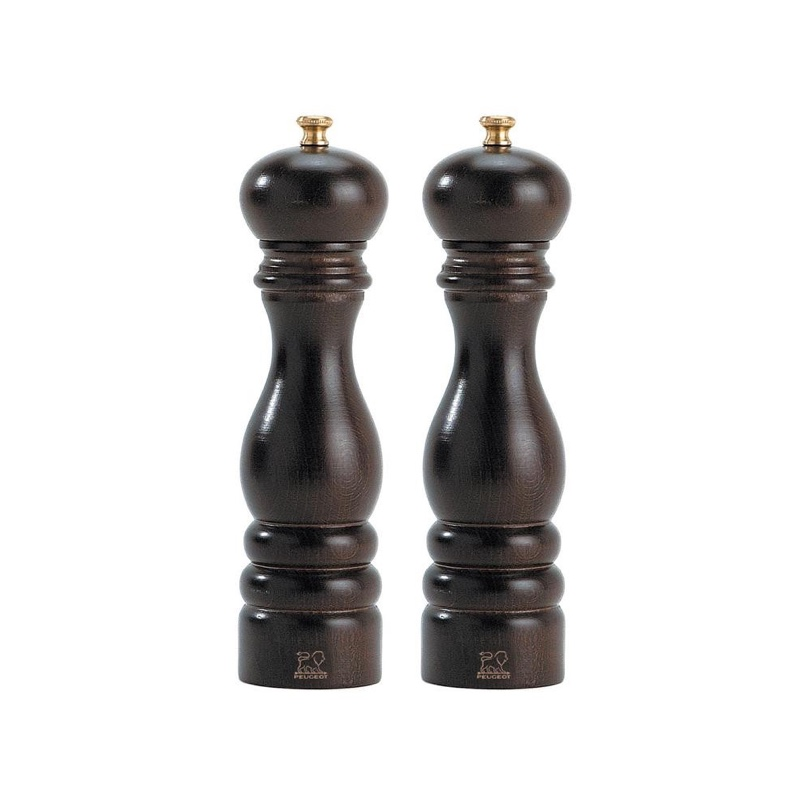
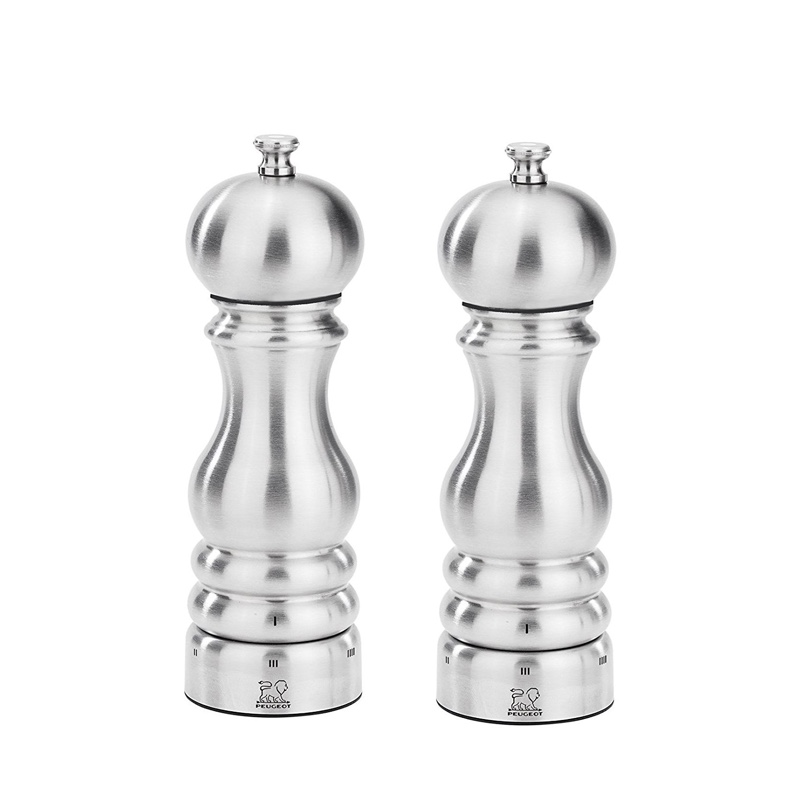
Better gift list

Changed region(s): [[0.2188, 0.125, 0.7812, 0.9062]]

diff --git a/src/views/components/gift-grid.js b/src/views/components/gift-grid.js
@@ -9,9 +9,15 @@ export default class GiftGrid extends Component {
 
     this.state = {
       highlight: null,
+      touchStart: null,
     };
     this._refs = [];
     this._onKeyDown = this._onKeyDown.bind(this);
+    this._onTouchStart = this._onTouchStart.bind(this);
+    this._onTouchMove = this._onTouchMove.bind(this);
+    this._onTouchEnd = this._onTouchEnd.bind(this);
+
+    this._scaleFactor = window.innerWidth < 361 ? 1.5 : 2;
   }
 
   componentDidMount() {
@@ -20,6 +26,34 @@ export default class GiftGrid extends Component {
 
   componentWillUnmount() {
     document.removeEventListener('keydown', this._onKeyDown, false);
+    this._refs.forEach(r => {
+      r.removeEventListener('touchstart', this._onTouchStart, false);
+      r.removeEventListener('touchmove', this._onTouchMove, false);
+      r.removeEventListener('touchend', this._onTouchEnd, false);
+    });
+  }
+
+  _onTouchStart(e) {
+    this.setState({ touchStart: e.targetTouches[0] });
+  }
+
+  _onTouchMove(e) {
+    if (this.state.highlight) {
+      e.preventDefault();
+      const newTouch = e.changedTouches[0];
+      const deltaX = (newTouch.pageX - this.state.touchStart.pageX) / this._scaleFactor;
+      const deltaY = (newTouch.pageY - this.state.touchStart.pageY) / this._scaleFactor;
+      const { restingX, restingY } = this.state.highlight;
+
+      const style = { ...this.state.highlight.style, transform: `scale(${this._scaleFactor}) translate3d(${restingX + deltaX}px, ${restingY + deltaY}px, 0)` };
+      this.setState({ highlight: { ...this.state.highlight, style,  }});
+    }
+  }
+
+  _onTouchEnd(e) {
+    if (this.state.highlight) {
+      this._refs[this.state.highlight.index].blur();
+    }
   }
 
   _onKeyDown(e) {
@@ -59,13 +93,14 @@ export default class GiftGrid extends Component {
 
   _handleFocus(e, index) {
     const el = e.target;
-    const scaleFactor = window.innerWidth < 361 ? 1.5 : 2;
-    const newX = (((window.innerWidth - el.offsetWidth) / 2 - el.offsetLeft) / scaleFactor) - 3;
-    const newY = (((window.innerHeight - el.offsetHeight) / 2 - el.offsetTop) / scaleFactor) + (window.scrollY / scaleFactor);
+    const restingX = (((window.innerWidth - el.offsetWidth) / 2 - el.offsetLeft) / this._scaleFactor) - 3;
+    const restingY = (((window.innerHeight - el.offsetHeight) / 2 - el.offsetTop) / this._scaleFactor) + (window.scrollY / this._scaleFactor);
     this.setState({
       highlight: {
         index,
-        style: { transform: `scale(${scaleFactor}) translate3d(${newX}px, ${newY}px, 0)`, zIndex: 165, cursor: 'default' },
+        restingX,
+        restingY,
+        style: { transform: `scale(${this._scaleFactor}) translate3d(${restingX}px, ${restingY}px, 0)`, zIndex: 165, cursor: 'default' },
       }
     });
   }
@@ -83,13 +118,20 @@ export default class GiftGrid extends Component {
           transitionLeaveTimeout={300}
         >
           {highlight ? (
-            <div className="overlay" />
+            <div className="overlay" onClick={this._onTouchEnd} />
             ) : null}
         </CSSTransitionGroup>
         <ul>
           {gifts.map((g, i) => (
             <li
-              ref={li => this._refs.push(li)}
+              ref={li => {
+                if (li) {
+                  this._refs.push(li);
+                  li.addEventListener('touchstart', this._onTouchStart, false);
+                  li.addEventListener('touchmove', this._onTouchMove, false);
+                  li.addEventListener('touchend', this._onTouchEnd, false);
+                }
+              }}
               style={highlight && highlight.index === i && highlight.style}
               role="button"
               tabIndex={0}

diff --git a/src/styles/components/gift-grid.sass b/src/styles/components/gift-grid.sass
@@ -3,12 +3,13 @@
   max-width: 675px
   list-style: none
   li
+    outline: none
     cursor: pointer
     will-change: transform
     display: inline-block
     width: 200px
     height: 200px
-    margin: 0 25px 25px 0
+    margin: 0 0 25px 25px
     z-index: 100
     transition: all 300ms cubic-bezier(0.165, 0.84, 0.44, 1)
     position: relative
@@ -16,15 +17,17 @@
     overflow: hidden
     border-radius: 5px
     @media screen and (max-width: 684px)
+      margin: 0 0 25px 0
       &:nth-child(even)
-        margin: 0 0 25px 0
+        margin: 0 0 25px 25px
     @media screen and (max-width: 459px)
       width: 140px
       height: 140px
     @media screen and (max-width: 360px)
       width: 200px
       height: 200px
-      margin: 0 0 25px 0
+      &:nth-child(even)
+        margin: 0 0 25px 0
     img
       transition: transform 300ms cubic-bezier(0.165, 0.84, 0.44, 1)
     .info
@@ -42,13 +45,14 @@
       height: 50px
       background-image: linear-gradient(-180deg, rgba(255, 255, 255, 0) 0%, #FFFFFF 50%)
       span:first-child
-        backface-visibility: hidden;
-        margin-left: 10px
-        margin-bottom: 10px
-        text-align: left;
+        backface-visibility: hidden
+        perspective: 0px
+        margin: 0 5px 10px 10px
+        text-align: left
       span:last-child
-        backface-visibility: hidden;
-        margin: 0 10px 10px auto;
+        backface-visibility: hidden
+        perspective: 0px
+        margin: 0 10px 10px auto
         text-align: right
         
   .overlay
@@ -77,7 +81,7 @@
   will-change: transform
   opacity: 0
   transform: translate3d(0, 100px, 0)
-  transition: all 300ms cubic-bezier(0.165, 0.84, 0.44, 1) 50ms
+  transition: all 300ms cubic-bezier(0.165, 0.84, 0.44, 1)
 .gift__grid_info_transition-enter-active
   transform: translate3d(0, 0, 0)
   opacity: 1

diff --git a/src/views/pages/gifts.js b/src/views/pages/gifts.js
@@ -76,8 +76,9 @@ const gifts = [
   },
   {
     alt: 'peugeot_salt_pepper',
-    title: 'Salt og peber, 18cm chokolade',
+    title: 'Salt og peber, 18cm stainless',
     company: 'PEUGEOT',
+    amount: '2 stk.',
     price: 'vejl. 399 kr.',
     imageUri: `/img/gifts/salt_pepper.${ isChrome ? 'webp' : 'jpg'}`,
   },
@@ -119,6 +120,15 @@ const gifts = [
   }
 ];
 
+const mainGift = [{
+  alt: 'hawaii',
+  title: 'Hawaii',
+  company: 'HONEYMOON',
+  imageUri: `/img/gifts/beach.${ isChrome ? 'webp' : 'jpg'}`,
+  amount: 'SWIFT: NDEADKKK',
+  price: 'IBAN: DK9920001234567890'
+}];
+
 export default () => (
   <PageWrapper className="page__gifts">
     <div className="content">
@@ -128,9 +138,16 @@ export default () => (
           <MarkupText id="gifts.copy.thanks" />
         </p>
         <p>
-          <Text id="gifts.copy.subjectToChange" />
+          Vores største ønske er en dejlig honeymoon til Hawaii. Alle bidrag er velkomne til at gøre vores rejse ekstra fantastisk.
         </p>
       </div>
+      <GiftGrid gifts={mainGift} />
+      <img
+        className="gift_ribbon"
+        alt="wedding_ribbon"
+        src={`/img/ribbons/red_ribbon.${ isChrome ? 'webp' : 'jpg'}`}
+        srcSet={`/img/ribbons/red_ribbon.${ isChrome ? 'webp' : 'jpg'}, /img/ribbons/red_ribbon@2x.${ isChrome ? 'webp' : 'jpg'} 2x, /img/ribbons/red_ribbon@3x.${ isChrome ? 'webp' : 'jpg'} 3x`}
+      />
       <GiftGrid gifts={gifts} />
       <div className="flowers">
         <img

diff --git a/src/styles/components/layout.sass b/src/styles/components/layout.sass
@@ -26,15 +26,20 @@
       font-size: 12px
 
   .layout_scale
+    position: fixed
+    border: 5px solid transparent
+    top: 0
+    right: 0
     height: 100%
+    width: 100%
     min-height: 500px
-    transform: scale(1);
-    transform-origin: center;
+    transform: scale(1)
+    transform-origin: center
     transition: transform 500ms cubic-bezier(0.165, 0.84, 0.44, 1)
 
 .layout__page_transition-enter
   will-change: transform
-  transform: translate3d(0, 100vh, 0)
+  transform: translate3d(0, 100%, 0)
   opacity: 0.8
   transition: all 350ms cubic-bezier(0.165, 0.84, 0.44, 1)
 .layout__page_transition-enter-active
@@ -46,5 +51,5 @@
   transform: translate3d(0, 0, 0)
   opacity: 1
 .layout__page_transition-leave-active
-  transform: translate3d(0, 100vh, 0)
+  transform: translate3d(0, 100%, 0)
   opacity: 0.8

diff --git a/src/views/locals/da-DK.js b/src/views/locals/da-DK.js
@@ -91,10 +91,10 @@ export default {
   gifts: {
     title: 'Gavelisten',
     copy: {
-      subjectToChange: 'Vores ønskeliste er stadig under udarbejdning.',
       thanks: `
         Vi er glade for at have Mathildes bror Lasse og hans kæreste <a href="https://www.facebook.com/profile.php?id=100003710135467" class="name" target="_blank" rel="noopener">Maria</a> som gavekoordinatore.
         Om I vælger en gave fra listen eller finder på noget selv så skriv til dem på e-mail: <a href="mailto:gavekoordinator@andreas-mathilde.com">gavekoordinator@andreas-mathilde.com</a>, så sikrer de, at andre ikke giver det samme som jer.
+        Der kan stadig forkomme tillæg til gavelisten.
       `
     }
   },

diff --git a/src/views/locals/en-GB.js b/src/views/locals/en-GB.js
@@ -91,10 +91,10 @@ export default {
   gifts: {
     title: 'Wish list',
     copy: {
-      subjectToChange: 'Our wish list is still subject to change.',
       thanks: `
         We're so happy to have Mathilde's brother Lasse, and his girlfriend <a href="https://www.facebook.com/profile.php?id=100003710135467" class="name" target="_blank" rel="noopener">Maria</a>, as our gift coordinators.
         Whether you choose an item from the list below or get creative, please let them know at: <a href="mailto:gavekoordinator@andreas-mathilde.com">gavekoordinator@andreas-mathilde.com</a>.
+        The wish list is still subject to additions.
       `
     }
   },

diff --git a/src/views/components/layout.js b/src/views/components/layout.js
@@ -36,6 +36,23 @@ export default class Layout extends Component {
     };
   }
 
+  componentDidMount() {
+    document.addEventListener('keydown', this._onKeyDown, false);
+  }
+
+  componentWillUnmount() {
+    document.removeEventListener('keydown', this._onKeyDown, false);
+  }
+
+  _onKeyDown(e) {
+    switch (e.keyCode) {
+      case 27: // esc
+        route('/');
+        break;
+      default: break;
+    }
+  }
+
   _getLocale(l) {
     switch(l.toLowerCase()) {
       case 'en':

diff --git a/src/views/components/page-wrapper.js b/src/views/components/page-wrapper.js
@@ -19,7 +19,10 @@ export default ({ className, children, ...props }) => (
         </svg>
       </Link>
     ) : <Link href="/" className="hot_corner" aria-label="Close page" />}
-    <div className={`page_wrapper ${ (isIE || isEdge) ? '' : 'clip'}`}>
+    <div
+      className={`page_wrapper ${ (isIE || isEdge) ? '' : 'clip'}`}
+      style={{ minHeight: `${window.innerHeight - 10}px` }}
+    >
       {children}
     </div>
   </article>

diff --git a/src/styles/components/page.sass b/src/styles/components/page.sass
@@ -3,14 +3,9 @@
  */
 
 .page
-  position: absolute
-  top: 0
-  min-height: 100vh;
   border-bottom: 5px solid white;
-  // height: 100%
   width: 100%
   z-index: $z-page
-  // overflow: hidden;
   .page_wrapper
     height: 100%
     background-color: $color-offwhite

diff --git a/src/styles/pages/venue.sass b/src/styles/pages/venue.sass
@@ -47,6 +47,9 @@
         p:not(:first-child)
           margin: 20px 0 10px
   .artwork
+    position: fixed
+    width: 100%
+    bottom: 0
     .front
       backface-visibility: hidden
       position: absolute

diff --git a/src/styles/components/footer.sass b/src/styles/components/footer.sass
@@ -23,7 +23,7 @@
     position: absolute
     height: 100px
     width: 100px
-    border: 5px solid $color-white
+    // border: 5px solid $color-white
     border-radius: 50%
     overflow: hidden
     &.left

diff --git a/src/styles/pages/gifts.sass b/src/styles/pages/gifts.sass
@@ -8,8 +8,6 @@
     padding: 40px 25px 0
     text-align: center
     height: 100%
-    overflow-y: scroll
-    -webkit-overflow-scrolling: touch
     img.title
       width: 240px
       margin-bottom: 20px
